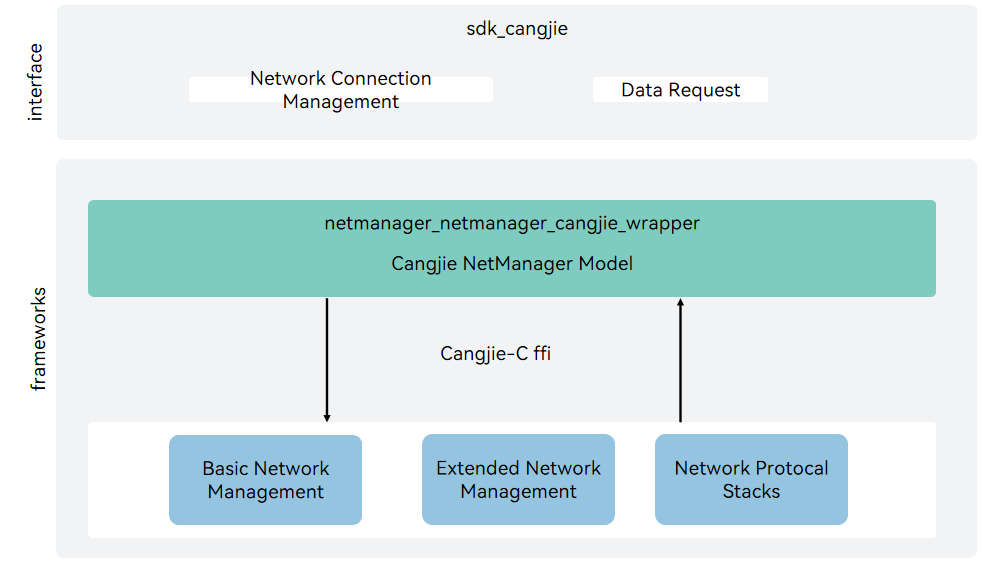
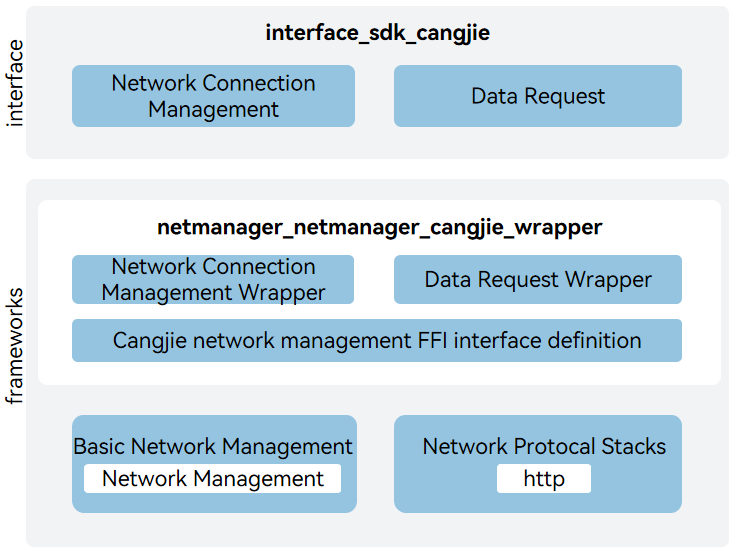
readme

diff --git a/README.md b/README.md
@@ -2,31 +2,34 @@
 
 ## Introduction
 
-The netmanager_cangjie_wrapper is a Cangjie API encapsulated on OpenHarmony based on the capabilities of the net management Subsystem. As a mandatory component for device networking, the network management subsystem implements unified connection management, traffic management, policy management, network sharing of different types of networks, and provides network protocol stack capabilities. An application can call APIs to obtain connection information of a data network, query and subscribe to connection status, network traffic data, and network policy, share the network, and transfer data using a network protocol stack.
+The netmanager_cangjie_wrapper is a Cangjie API encapsulated on OpenHarmony based on the capabilities of the net management Subsystem. As a mandatory component for device networking, the network management subsystem implements unified connection management, traffic management, policy management, network sharing of different types of networks, and provides network protocol stack capabilities. An application can call APIs to obtain connection information of a data network, query and subscribe to connection status, network traffic data, and network policy, share the network, and transfer data using a network protocol stack. The netmanager_cangjie_wrapper includes network connection management and services related to data requests. The network management cangjie interface currently under development only supports standard devices.
 
-The figure below shows the architecture of the network management subsystem. The network management subsystem consists of the following components:
-
--   Basic network management: provides basic network connection management and related JS and native APIs, including connection priority management, connection information query, connection status observation, DNS resolution, traffic management, networking policy management, and physical network management.
--   Extended network management: provides extended network management capabilities and related JS and native APIs, including Ethernet connection and hotspot sharing.
--   Network protocol stacks: provides basic network protocol stacks (such as HTTP, HTTPS, WebSocket, and TCP/UDP/TLS socket) and related JS APIs.
-
-**Figure 1** Architecture of the netmanager_cangjie_wrapper
+## System Architecture
 
 ![](figures/netmanager_cangjie_wrapper_architecture_en.png)
 
+**Figure 1** Architecture of the netmanager_cangjie_wrapper
+
+As shown in the architecture diagram:
+
+-   Network Connection Management: Provides network management capabilities.
+-   Data Request: Provides HTTP data request capabilities.
+-   Cangjie network management FFI interface definition: Responsible for defining the C interoperability Cangjie interface, which is used to realize the Cangjie network management capabilities.
+-   Basic Network Management: Responsible for providing the basic functions of network management, and providing the package C interface to Cangjie for interoperability.
+-   Network Protocal Stacks: Responsible for providing the basic functions of network protocal stacks, and providing the package C interface to Cangjie for interoperability.
+
 ## Directory Structure
+
+The structure of the repository directory is as follows:
 
 ```
 foundation/communication/netmanager_cangjie_wrapper
-├── ohos             # Cangjie Network Management code
-├── kit              # Cangjie kit code
 ├── figures          # architecture pictures
+├── kit              # Cangjie kit code
+│   └── NetworkKit
+└── ohos             # Cangjie Network Management code
+    └── net
 ```
-
-## Constraints
-
-The network management cangjie interface currently under development only supports standard devices.
-
 ## Usage
 
 The netmanager_cangjie_wrapper provides the following capabilities:
@@ -36,13 +39,25 @@ The netmanager_cangjie_wrapper provides the following capabilities:
 
 Compared to ArkTS, the following features are currently not supported:
 
+-   Ethernet Connection Management.
+-   mDNS Management.
+-   Network Policy Management.
+-   Socket Connection.
+-   Traffic Management.
 -   Network Sharing.
+-   Enhanced VPN Management.
+-   VPN Management.
+-   WebSocket Connection.
+-   Network Firewall.
+-   Network Security.
+-   Extensible Authentication.
+-   Enhanced VPN Management.
 
-For netmanager APIs, please refer to
-1. [ohos.net.connection](https://gitcode.com/openharmony-sig/arkcompiler_cangjie_ark_interop/blob/master/doc/API_Reference/source_en/apis/NetworkKit/cj-apis-net-connection.md)。
-2. [ohos.net.http](https://gitcode.com/openharmony-sig/arkcompiler_cangjie_ark_interop/blob/master/doc/API_Reference/source_en/apis/NetworkKit/cj-apis-net-http.md)。
+For netmanager APIs, please refer to:
+1. [ohos.net.connection](https://gitcode.com/openharmony-sig/arkcompiler_cangjie_ark_interop/blob/master/doc/API_Reference/source_en/apis/NetworkKit/cj-apis-net-connection.md)
+2. [ohos.net.http](https://gitcode.com/openharmony-sig/arkcompiler_cangjie_ark_interop/blob/master/doc/API_Reference/source_en/apis/NetworkKit/cj-apis-net-http.md)
 
-For relevation guidance, please refer to [Network Development Guide](https://gitcode.com/openharmony-sig/arkcompiler_cangjie_ark_interop/blob/master/doc/Dev_Guide/source_en/network)。
+For relevation guidance, please refer to [Network Development Guide](https://gitcode.com/openharmony-sig/arkcompiler_cangjie_ark_interop/blob/master/doc/Dev_Guide/source_en/network)
 
 ## Code Contribution
 

diff --git a/README_zh.md b/README_zh.md
@@ -2,30 +2,34 @@
 
 ## 简介
 
-网络管理仓颉接口是在 OpenHarmony 上基于网络管理子系统能力之上封装的仓颉API。网络管理子系统，作为设备联网的必备组件，提供了对不同类型网络连接的统一管理、流量管理、策略管理、网络共享，并提供了网络协议栈能力。应用可以通过调用API来获取数据网络的连接信息，查询和订阅数据网络的连接状态，网络流量数据，网络策略以及网络共享等，并可通过网络协议栈进行数据传输。
+网络管理仓颉接口是在OpenHarmony上基于网络管理子系统能力之上封装的仓颉API。网络管理子系统，作为设备联网的必备组件，提供了对不同类型网络连接的统一管理、流量管理、策略管理、网络共享，并提供了网络协议栈能力。应用可以通过调用API来获取数据网络的连接信息，查询和订阅数据网络的连接状态，网络流量数据，网络策略以及网络共享等，并可通过网络协议栈进行数据传输。网络管理仓颉接口包含了网络连接管理、数据请求相关业务。当前开发的网络管理仓颉接口仅支持standard设备。
 
-下图所示为网络管理仓颉架构图。各个部件主要作用如下：
-
--   网络管理基础部件：主要功能是提供基础网络连接管理能力和对应的JS/Native API，包括不同网络连接优先级管理、网络连接信息查询、网络连接状态变化、DNS解析、流量统计管理、联网策略管理以及物理网络管理等。
--   网络管理扩展部件：主要功能是提供网络管理扩展能力和对应的JS/Native API，包括以太网连接、热点网络共享等。
--   网络协议栈部件：主要功能是提供基础的网络协议栈和对应的JS API，包括HTTP、HTTPS、WebSocket、TCP/UDP/TLS Socket等基础网络协议栈能力。
-
-**图 1**   子系统架构图
+## 系统架构
 
 ![](figures/netmanager_cangjie_wrapper_architecture.png)
 
+**图 1** 网络管理仓颉架构图
+
+如架构图所示：
+
+-   网络连接管理：提供管理网络能力。
+-   数据请求：提供HTTP数据请求能力。
+-   仓颉网络管理FFI接口定义：定义C互操作仓颉接口，用于实现仓颉网络管理能力。
+-   网络管理基础：提供基础网络连接管理能力，封装C接口提供给仓颉进行互操作。
+-   网络协议栈：提供基础的网络协议栈，封装C接口提供给仓颉进行互操作。
+
 ## 目录
+
+仓目录结构如下：
 
 ```
 foundation/communication/netmanager_cangjie_wrapper
-├── ohos             # 仓颉网络管理接口实现
+├── figures          # 存放README中的架构图
 ├── kit              # 仓颉kit化代码
-├── figures          # 存放readme中的架构图
+│   └── NetworkKit
+└── ohos             # 仓颉网络管理接口实现
+    └── net
 ```
-
-## 约束
-
-当前开发的网络管理仓颉接口仅支持standard设备。
 
 ## 使用说明
 
@@ -36,13 +40,25 @@ foundation/communication/netmanager_cangjie_wrapper
 
 与ArkTS相比，暂不支持以下功能：
 
--   网络共享。
+-   以太网连接管理。
+-   MDNS管理。
+-   网络策略管理。
+-   Socket连接。
+-   流量管理。
+-   网络共享管理。
+-   VPN增强管理。
+-   VPN管理。
+-   WebSocket连接。WebSocket 
+-   网络防火墙。
+-   网络安全。
+-   扩展认证。
+-   三方VPN能力。
 
-网络管理相关API请参见
-1. [ohos.net.connection](https://gitcode.com/openharmony-sig/arkcompiler_cangjie_ark_interop/blob/master/doc/API_Reference/source_zh_cn/apis/NetworkKit/cj-apis-net-connection.md)。
-2. [ohos.net.http](https://gitcode.com/openharmony-sig/arkcompiler_cangjie_ark_interop/blob/master/doc/API_Reference/source_zh_cn/apis/NetworkKit/cj-apis-net-http.md)。
+网络管理相关API请参见：
+1. [ohos.net.connection](https://gitcode.com/openharmony-sig/arkcompiler_cangjie_ark_interop/blob/master/doc/API_Reference/source_zh_cn/apis/NetworkKit/cj-apis-net-connection.md)
+2. [ohos.net.http](https://gitcode.com/openharmony-sig/arkcompiler_cangjie_ark_interop/blob/master/doc/API_Reference/source_zh_cn/apis/NetworkKit/cj-apis-net-http.md)
 
-相关指导请参见[网络管理开发指南](https://gitcode.com/openharmony-sig/arkcompiler_cangjie_ark_interop/blob/master/doc/Dev_Guide/source_zh_cn/network)。
+相关指导请参见[网络管理开发指南](https://gitcode.com/openharmony-sig/arkcompiler_cangjie_ark_interop/blob/master/doc/Dev_Guide/source_zh_cn/network)
 
 ## 参与贡献
 
